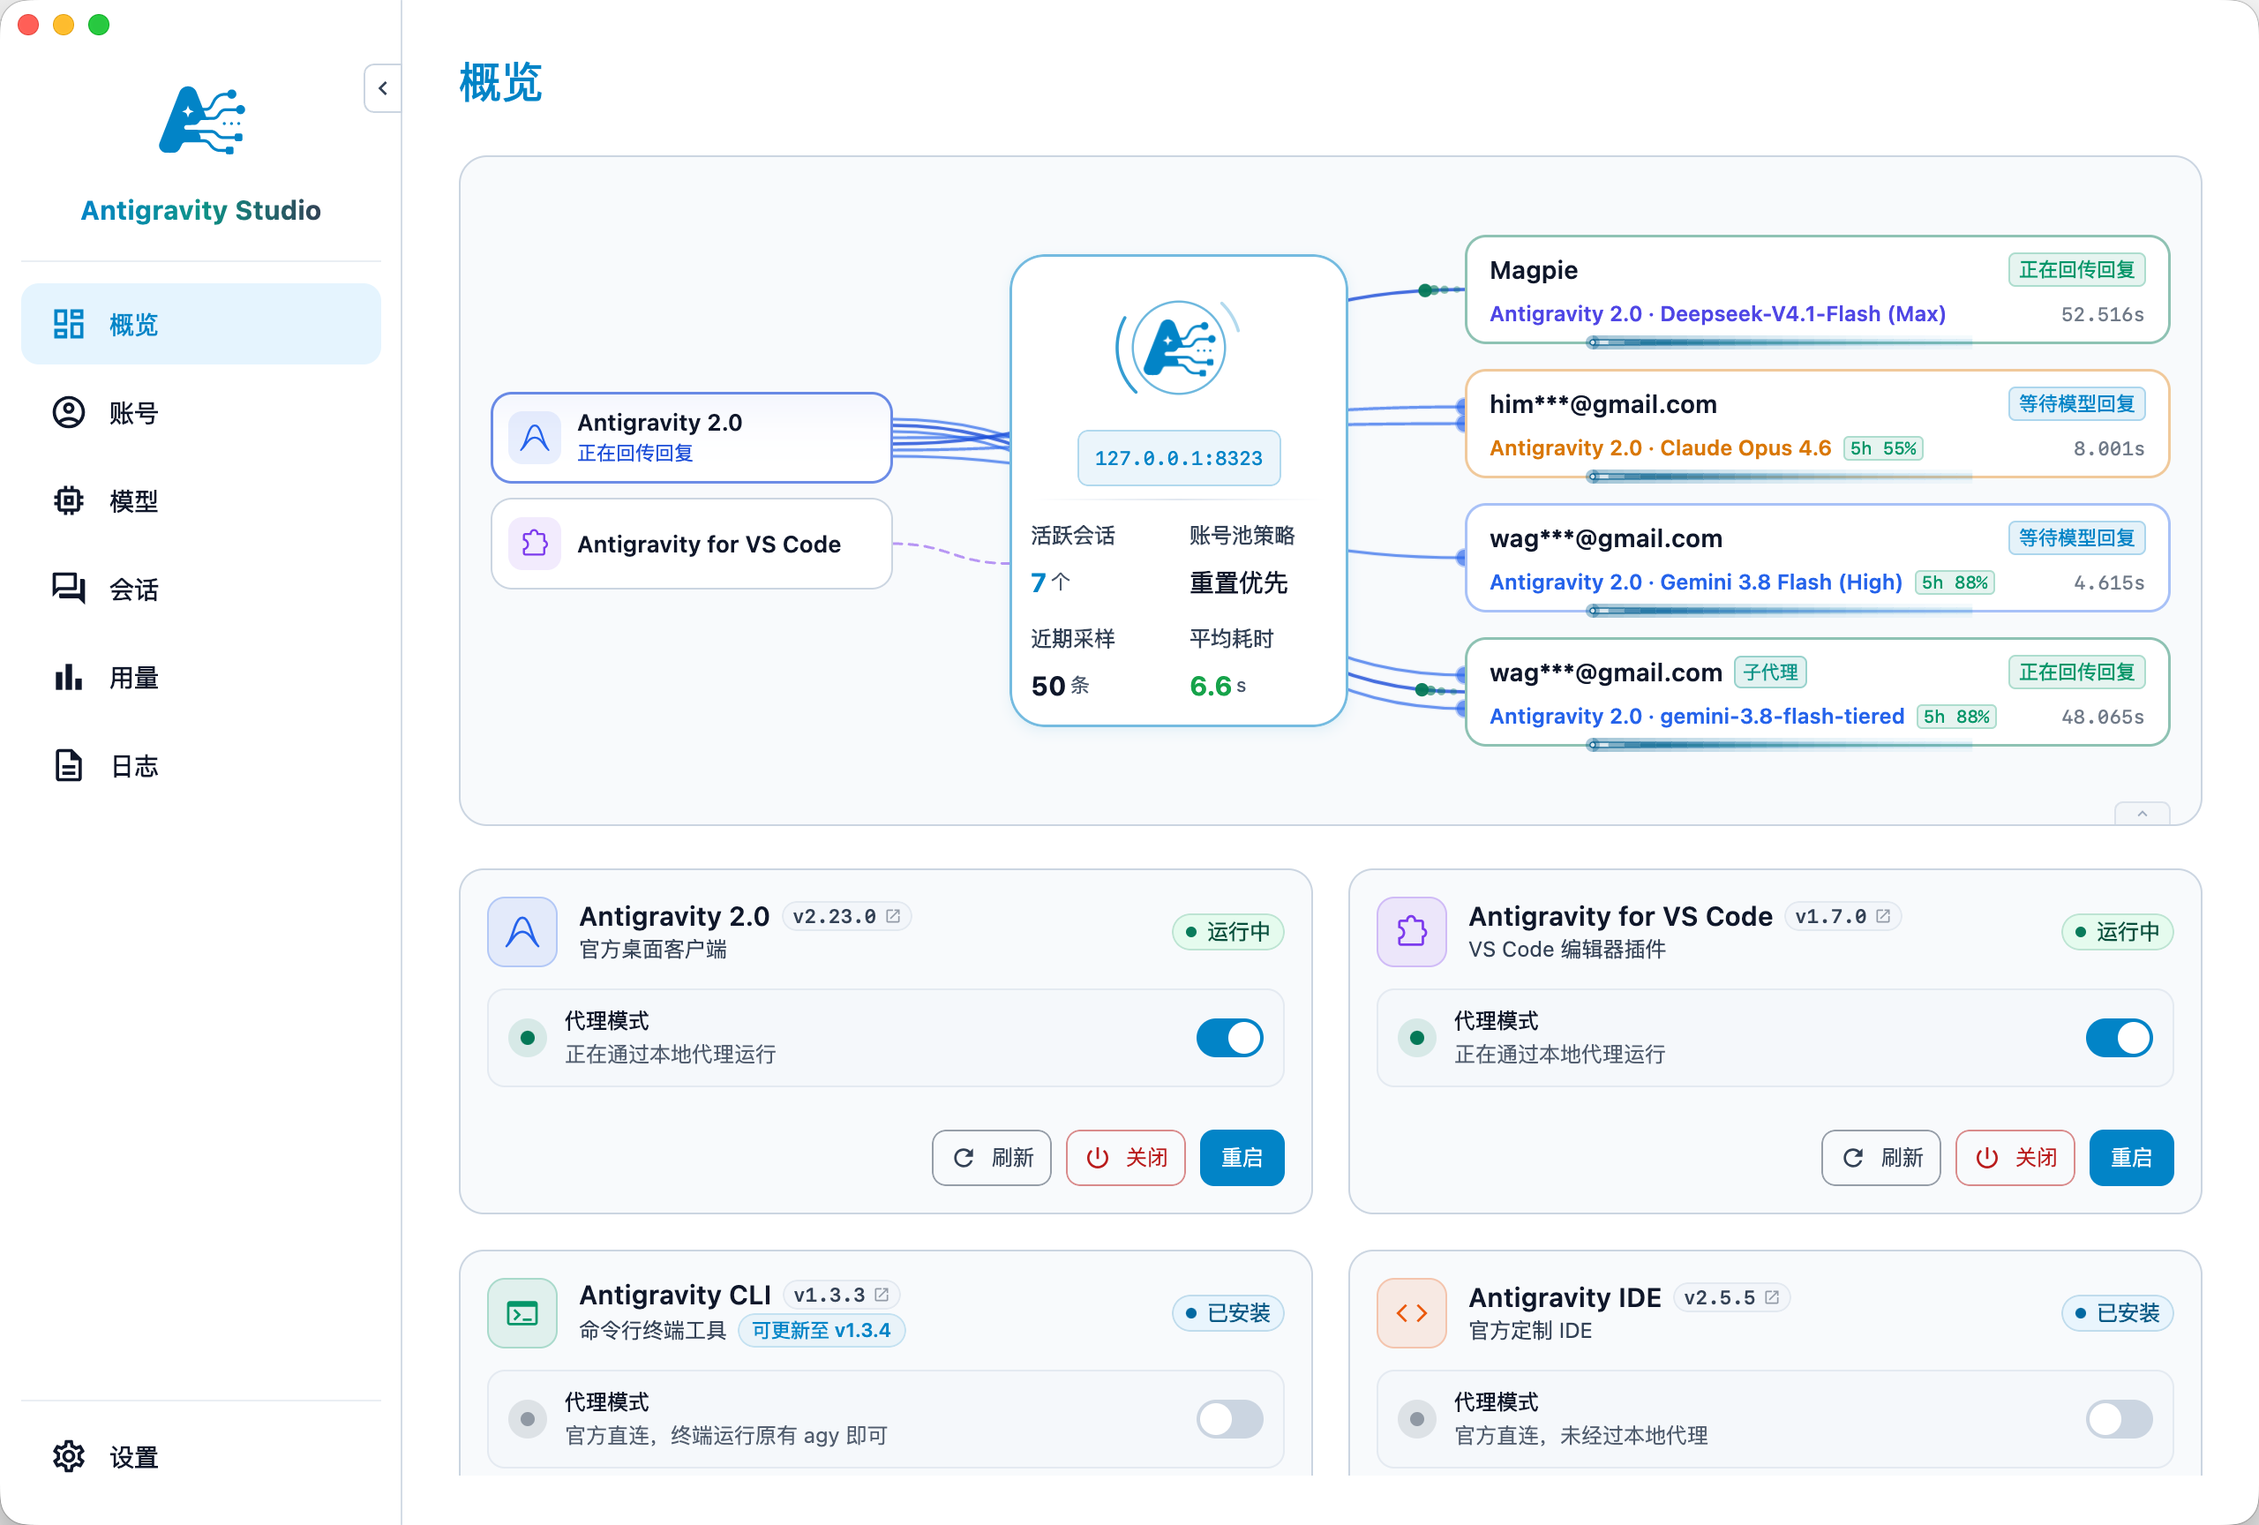
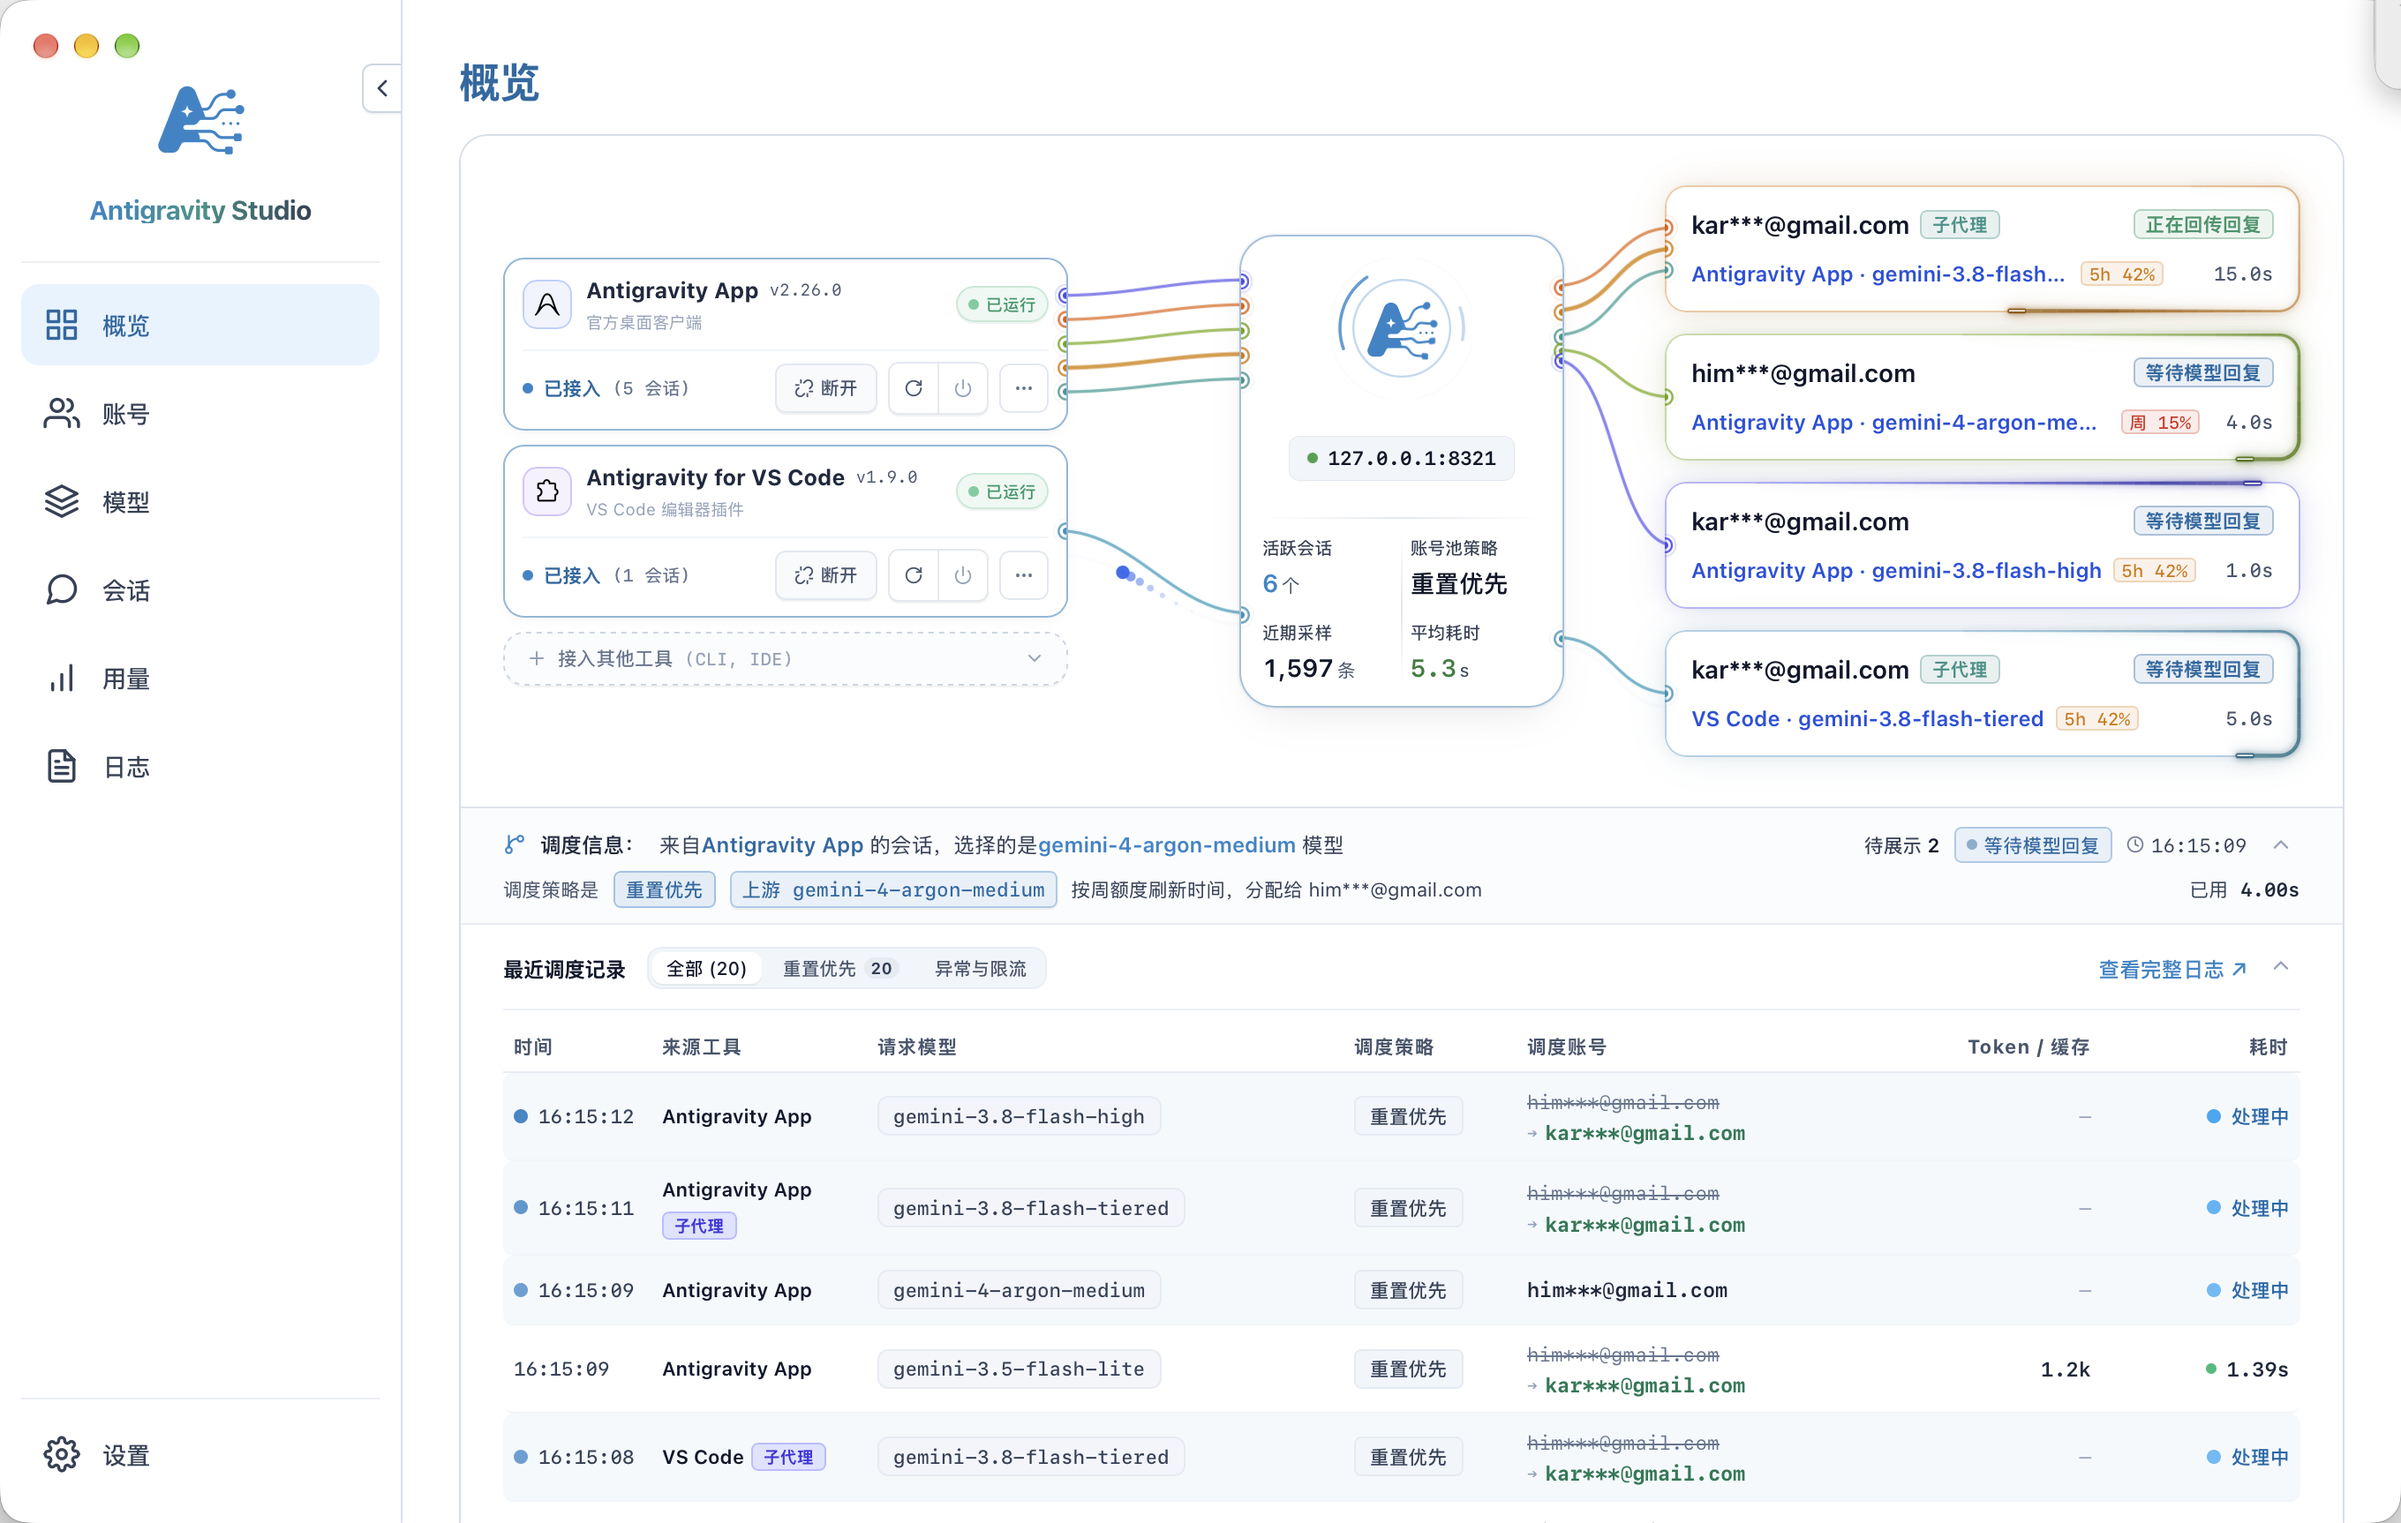
docs(readme): 同步最新概览截图并移除过期诊断截图

diff --git a/README.en.md b/README.en.md
@@ -53,7 +53,6 @@ Review request counts, token usage, cost estimates, and request logs. Compare mo
 
 ![Usage statistics](img/zh/usage_statistics.png)
 ![Request logs](img/zh/activity_logs.png)
-![Network checks](img/zh/health_doctor.png)
 
 ## Installation and Quick Start
 
